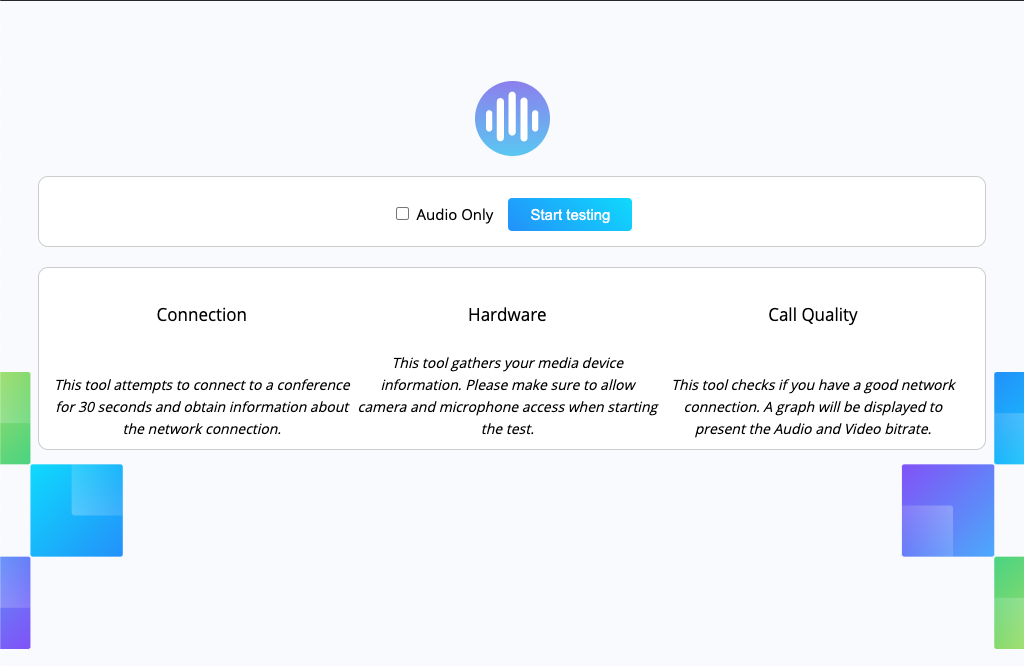
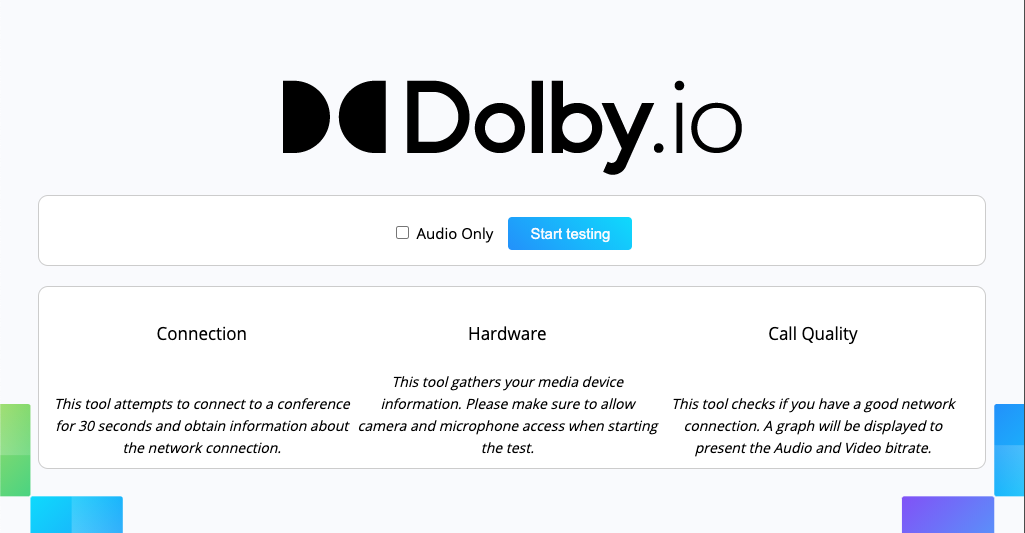
Update the SDK to version 3.0.0 and update wiki

diff --git a/public/index.html b/public/index.html
@@ -5,7 +5,7 @@
     <meta name="viewport" content="width=device-width, initial-scale=1, shrink-to-fit=no">
     <meta name="theme-color" content="#000000">
     <link href="https://fonts.googleapis.com/css?family=Open+Sans:300,400,600,700" rel="stylesheet">
-    <link rel="shortcut icon" href="./favicon.ico">
+    <link rel="shortcut icon" href="./favicon-32x32.png">
     <meta name="viewport" content="width=device-width, initial-scale=1.0, maximum-scale=1.0, user-scalable=no">
     <link rel="apple-touch-icon" sizes="48x48" href="https://dolby.io/icons/icon-48x48.png">
     <link rel="apple-touch-icon" sizes="72x72" href="https://dolby.io/icons/icon-72x72.png">

diff --git a/src/components/home.js b/src/components/home.js
@@ -1,7 +1,7 @@
 import React, { Component } from 'react';
 import PropTypes from 'prop-types'
 import '../assets/css/call-tester.less';
-import logo from '../assets/images/logo.svg';
+import logo from '../assets/images/logo.png';
 import VoxeetConference from './VoxeetConference'
 
 class Home extends Component {

diff --git a/src/components/VoxeetConference.js b/src/components/VoxeetConference.js
@@ -1,6 +1,6 @@
 import React, { Component } from "react";
 import "../assets/css/call-tester.less";
-import logo from "../assets/images/logo.svg";
+import logo from "../assets/images/logo.png";
 import AudioVuMeter from "./AudioVuMeter";
 import Sdk from "./sdk";
 import Chart from "chart.js";

diff --git a/README.md b/README.md
@@ -2,7 +2,7 @@ Dolby<span>.io</span> Call Tester
 =====================
 
 <p align="center">
-<img src="https://cdn.dolby.io/wp-content/uploads/2020/05/Dolbyio-white-horizontal-e1589344433251.jpg" alt="Dolby.io logo" title="Dolby.io logo" width="200"/>
+<img src="wiki/dolbyio.jpeg" alt="Dolby.io logo" title="Dolby.io logo" width="200"/>
 </p>
 
 This project is a pre-call tester to check client readiness for connecting to dolby<span>.io</span>. The tool will check network, devices, and available network bandwidth for audio and video traffic.
